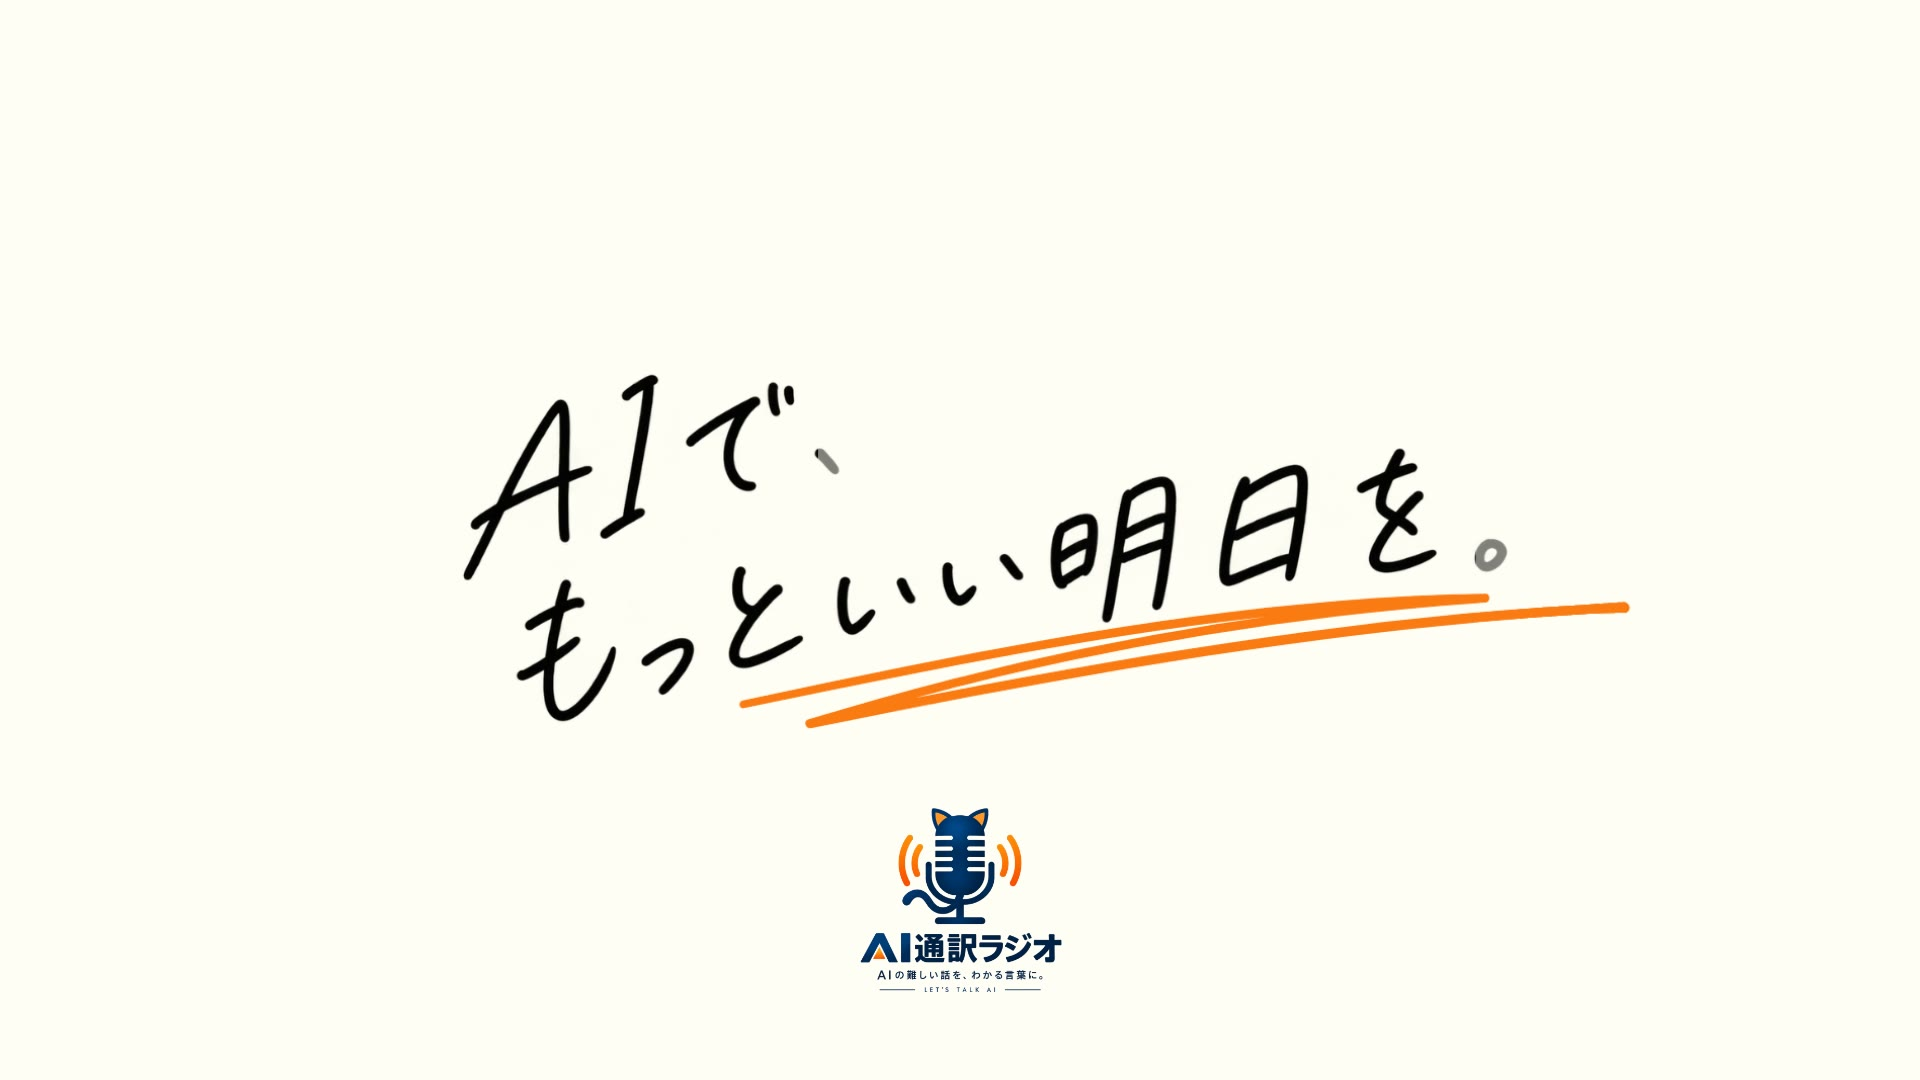
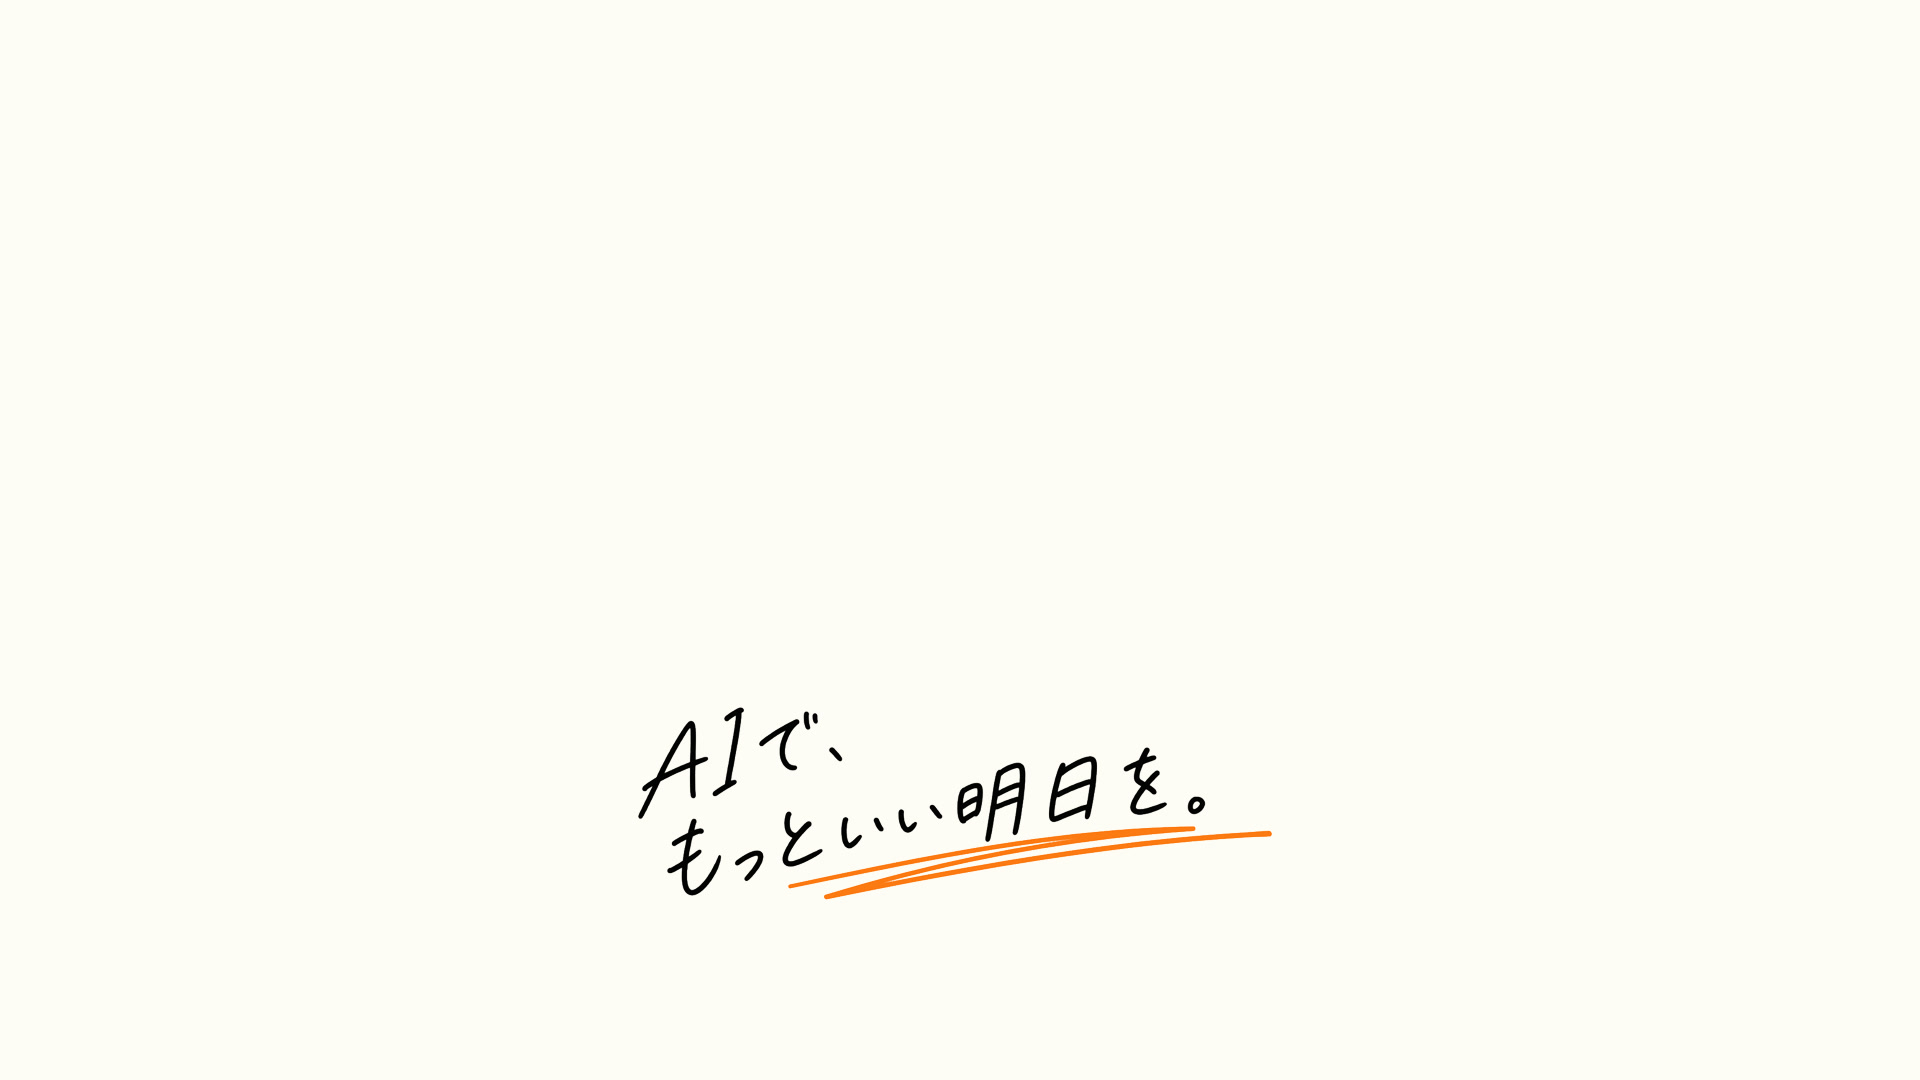
Polish the top page for desktop: branded video play button and closer section density
- Guide video: show a dedicated poster with a branded play button before playback;
  native controls appear only after the user starts it. Compact button on mobile.
- Desktop only (>= 901px): tighten the new upper sections (hero height and logo scale,
  guide video spacing, translation demo size) and give the existing lower sections a bit
  more room (content cards, latest episode, news), each by about 10-15%.
- Record the review in web/review/REVIEW.md.

diff --git a/web/app/globals.css b/web/app/globals.css
@@ -407,7 +407,16 @@ h2 { font-size: 28px; font-weight: 700; letter-spacing: -.035em; line-height: 1.
 .guide-copy .eyebrow { color: #ffc66f; margin-bottom: 12px; }
 .guide-copy h2 { font-size: 26px; line-height: 1.75; }
 .guide-copy > p:last-child { margin-top: 16px; color: #c9d6df; font-size: 13px; line-height: 2; }
-.guide-frame { border: 1px solid #ffffff2e; background: #000; }
+.guide-frame { position: relative; border: 1px solid #ffffff2e; background: #000; }
+/* 再生前：中央を空けたポスター＋再生ボタン（アンバーの再生マークに紺の三角。ヘッダーの「番組を聴く」と同じ組み合わせ） */
+.guide-play { position: absolute; inset: 0; display: flex; flex-direction: column; align-items: center; justify-content: center; gap: 10px; padding: 0 0 15%; border: 0; background: transparent; color: var(--navy); font: inherit; cursor: pointer; transition: background .25s ease; }
+.guide-play:hover { background: rgba(8, 27, 42, .035); }
+.guide-play:focus-visible { outline: 3px solid var(--amber); outline-offset: -3px; }
+.guide-play-mark { position: relative; width: 76px; height: 76px; margin-bottom: 6px; border-radius: 50%; background: var(--amber); box-shadow: 0 0 0 10px rgba(240, 163, 56, .18); transition: transform .25s ease, box-shadow .25s ease; }
+.guide-play-mark::after { content: ""; position: absolute; top: 50%; left: 54%; transform: translate(-50%, -50%); border-style: solid; border-width: 13px 0 13px 21px; border-color: transparent transparent transparent var(--navy); }
+.guide-play:hover .guide-play-mark { transform: scale(1.06); box-shadow: 0 0 0 14px rgba(240, 163, 56, .22); }
+.guide-play-label { font-size: 16px; font-weight: 700; letter-spacing: .04em; }
+.guide-play-meta { color: var(--muted); font-family: Arial, sans-serif; font-size: 11px; letter-spacing: .12em; }
 .guide-video { display: block; width: 100%; height: auto; aspect-ratio: 16 / 9; background: #000; }
 
 /* スクロール通訳デモ（素のHTMLでは一覧表示） */
@@ -472,6 +481,11 @@ h2 { font-size: 28px; font-weight: 700; letter-spacing: -.035em; line-height: 1.
   .guide-section { padding-block: 44px; }
   .guide-inner { grid-template-columns: 1fr; gap: 24px; }
   .guide-copy h2 { font-size: 22px; }
+  .guide-play { gap: 4px; padding-bottom: 22%; }
+  .guide-play-mark { width: 46px; height: 46px; margin-bottom: 4px; box-shadow: 0 0 0 6px rgba(240, 163, 56, .18); }
+  .guide-play-mark::after { border-width: 8px 0 8px 13px; }
+  .guide-play-label { font-size: 13px; }
+  .guide-play-meta { display: none; }
   .xlate { padding-top: 44px; }
   .xlate-item { grid-template-columns: 1fr; }
   .xlate-arrow { display: none; }
@@ -494,6 +508,48 @@ h2 { font-size: 28px; font-weight: 700; letter-spacing: -.035em; line-height: 1.
   .xlate.is-scrolly .xlate-grid { width: calc(100% - 40px); }
 }
 .xlate.is-scrolly { padding-top: 0; }
+
+
+/* =========================================================
+   PCの密度調整（2026-09-30）：新しい上半分と既存の下半分を、10〜15%ずつ互いに近づける
+   モバイルは確定済みのため、幅901px以上だけに適用する
+   ========================================================= */
+@media (min-width: 901px) {
+  /* 上半分：少し締める */
+  .t-hero { height: clamp(500px, 74vh, 640px); }
+  .t-hero-cta { bottom: 34px; }
+  .guide-section { padding-block: 52px; }
+  .guide-inner { grid-template-columns: minmax(0, 1fr) minmax(0, 1.35fr); gap: 36px; }
+  .guide-copy h2 { font-size: 23px; line-height: 1.7; }
+  .guide-copy > p:last-child { font-size: 12px; }
+  .xlate.is-scrolly .xlate-stage { gap: 34px; }
+  .xlate.is-scrolly .xlate-head h2, .xlate-head h2 { font-size: 23px; }
+  .xlate.is-scrolly .xlate-grid { width: min(1000px, calc(100% - 80px)); }
+  .xlate.is-scrolly .xlate-mic { width: 170px; }
+  .xlate.is-scrolly .xlate-term { font-size: clamp(24px, 2.6vw, 34px); padding: 16px 26px; }
+  .xlate.is-scrolly .xlate-plain { min-height: 128px; padding: 22px 26px; font-size: clamp(21px, 2vw, 27px); }
+  .xlate.is-scrolly .xlate-plain::after { left: 26px; right: 26px; bottom: 15px; }
+
+  /* 下半分：少し広げる */
+  .content-section { padding-block: 46px 52px; }
+  .compact-heading { margin-bottom: 22px; }
+  .compact-heading h2 { font-size: 23px; }
+  .content-grid { gap: 14px; }
+  .content-item { min-height: 176px; }
+  .content-visual { padding: 14px 16px 16px; }
+  .content-visual strong { font-size: 25px; }
+  .content-icon { width: 66px; height: 66px; }
+  .content-copy { padding: 16px 18px; }
+  .content-copy h3 { font-size: 15px; }
+  .content-copy p { margin-top: 8px; font-size: 12px; }
+  .updates-section { padding-block: 40px 52px; }
+  .episode-copy > p { font-size: 12px; }
+  .news-list h3 { font-size: 13px; }
+  .news-list p { font-size: 10px; }
+  .news-meta time { font-size: 10px; }
+}
+
+/* 901〜1100px：通訳デモの右の枠が細くならないよう、マイク列と余白を詰める（上の密度調整より優先） */
 @media (min-width: 901px) and (max-width: 1100px) {
   .xlate.is-scrolly .xlate-grid { grid-template-columns: minmax(0, 1fr) 150px minmax(0, 1.5fr); column-gap: 28px; }
   .xlate.is-scrolly .xlate-mic { width: 150px; }

diff --git a/web/components/home/guide-video.tsx b/web/components/home/guide-video.tsx
@@ -1,11 +1,25 @@
+"use client";
+
+import { useRef, useState } from "react";
+
 /*
   Hero直後の案内動画（MVP）。
   現在はCM本編（Canvas 2D）の後半を約36秒に編集したもの：こんな人に → むずかしいを、やさしく。
   → ElevenLabs V4の女性音声「AIで、もっといい明日を。」。
   Heroで見せた「専門用語 → マイク → ロゴ」は入れず、内容の重複を避けている。
   制作元：canvas2Ｄ動画/cm_full.html?cut=short（WebM書き出し → ffmpegでH.264に変換）
+
+  再生前はポスターとブランドの再生ボタンだけを見せ、ブラウザ標準のコントロールは再生を始めてから出す。
 */
 export function GuideVideo() {
+  const videoRef = useRef<HTMLVideoElement>(null);
+  const [started, setStarted] = useState(false);
+
+  function play() {
+    setStarted(true);
+    videoRef.current?.play().catch(() => undefined);
+  }
+
   return (
     <section className="guide-section" aria-labelledby="guide-title">
       <div className="container guide-inner">
@@ -14,10 +28,17 @@ export function GuideVideo() {
           <h2 id="guide-title">AI通訳ラジオは、<br />こんな人のための番組です。</h2>
           <p>エンジニアじゃなくても。専門用語が苦手でも。<br className="desktop-break" />ニュースを追う時間がなくても。</p>
         </div>
-        <div className="guide-frame">
-          <video className="guide-video" controls playsInline preload="none" poster="/images/guide-short-poster.jpg" aria-label="AI通訳ラジオの案内動画（約36秒・音声あり）">
+        <div className={`guide-frame${started ? " is-started" : ""}`}>
+          <video ref={videoRef} className="guide-video" controls={started} playsInline preload="none" poster="/images/guide-short-poster.jpg" aria-label="AI通訳ラジオの案内動画（約36秒・音声あり）">
             <source src="/video/guide-short.mp4" type="video/mp4" />
           </video>
+          {!started && (
+            <button type="button" className="guide-play" onClick={play}>
+              <span className="guide-play-mark" aria-hidden="true" />
+              <span className="guide-play-label">案内を再生する</span>
+              <span className="guide-play-meta">0:36 ・ 音声あり</span>
+            </button>
+          )}
         </div>
       </div>
     </section>

diff --git a/web/components/home/translator-hero.tsx b/web/components/home/translator-hero.tsx
@@ -74,7 +74,8 @@ function buildLayout(ctx: CanvasRenderingContext2D, w: number, h: number): Layou
   const ctaSpace = narrow ? 170 : 132;
   const pad = narrow ? 28 : Math.max(28, h * 0.06);
   const availH = h - ctaSpace - pad;
-  const s = Math.min(availH / (LOCK.y1 - LOCK.y0), (w * 0.84) / (LOCK.x1 - LOCK.x0), 0.95);
+  // PCではロゴを主役にしすぎない（既存サイトの情報密度に合わせて上限を下げる）
+  const s = Math.min(availH / (LOCK.y1 - LOCK.y0), (w * 0.84) / (LOCK.x1 - LOCK.x0), w > 900 ? 0.62 : 0.95);
   const top = pad + (availH - (LOCK.y1 - LOCK.y0) * s) / 2;
   const cx = w / 2;
   const q = Math.min(64, w * 0.085);

diff --git a/web/review/REVIEW.md b/web/review/REVIEW.md
@@ -1,5 +1,31 @@
 # Web MVP トップページ調整レビュー
 
+## トップ上部 PC仕上げレビュー（2026-10-01）
+
+組み替えMVPを人間側で確認したところ、モバイルは問題なし。一方PCでは「凄そうだが少し素人っぽい」違和感があった。原因を次の2点と判断し、大改造はせずPC（幅901px以上）だけ仕上げた。
+
+- 案内動画が、作り込んだ紺のセクションの中でブラウザ標準の動画プレイヤーのまま見えていた。
+- 新しい上半分（映画・LP的な大きい見せ方）と、既存の下半分（編集メディア的でコンパクト）の情報密度の差。モバイルは1列で画面幅が狭いため、この差が見えない。
+
+| 確認 | 結果 |
+| --- | --- |
+| lint / TypeScript | 成功 |
+| 案内動画 | 再生前は中央を空けた専用ポスター＋再生ボタン（アンバーの円に紺の三角）だけを表示。クリックで音声ありの再生が始まり、標準コントロールはそこで初めて出ることを確認 |
+| PC 1440px | Heroの高さ640px。ロゴが主役になりすぎず、1画面目の下端に案内動画の紺が見える |
+| 通訳デモの改行 | 920 / 1100 / 1440pxで、言い換えが意味の切れ目だけで1〜2行に収まり、専門用語が列からはみ出さない |
+| モバイル | 375pxで再生ボタンを小さくし、再生時間の表示を省略。横スクロールなし。それ以外のモバイル表示は変更なし |
+
+### 調整内容（PC＝幅901px以上のみ）
+
+- 上半分を締める：Heroの高さの上限 760px → 640px、ロゴの拡大上限 0.95 → 0.62。案内動画の上下余白 64px → 52px、列間 48px → 36px、見出しを既存セクションと同じ23pxに。通訳デモの横幅を1000pxに絞り、文字・マイクを約1割小さく。
+- 下半分を広げる：3カテゴリーのカード間 8px → 14px、カード高 154px → 176px、見出し 14px → 15px、本文 11px → 12px、セクション余白を拡大。最新エピソード・お知らせの余白と、9〜12pxの小さい文字を1段ずつ上げた。
+- いずれも10〜15%程度の変更に留めた。
+- `guide-short-poster.jpg` は、中央を空けて手書きの締めを下に置いた再生前専用のポスターへ差し替えた（動画本体は変更なし）。最初は既存ポスターに紺の半透明を重ねたが、クリーム地と混ざって濁った灰色になり、ボタンが手書き文字に重なったため不採用。
+
+### 残り
+
+- Heroの専門用語は、レスポンシブのためランダム配置。PCでは余白が広く、配置の人工的なランダムさが見えやすい。必要ならPCだけ手で組んだ構図にする（未着手）。
+
 ## トップ上部 組み替えMVP レビュー（2026-09-30）
 
 トップページ上部を「新Hero → 案内動画 → スクロール通訳 → 既存3カテゴリー」に組み替えた。第一段階として人間側で確定。細部（やや冷たく感じる箇所など）はまだ言語化できていないため、今後少しずつ調整する前提とする。トップ以外のページと、最新エピソード・お知らせ・ABOUTは変更していない。
